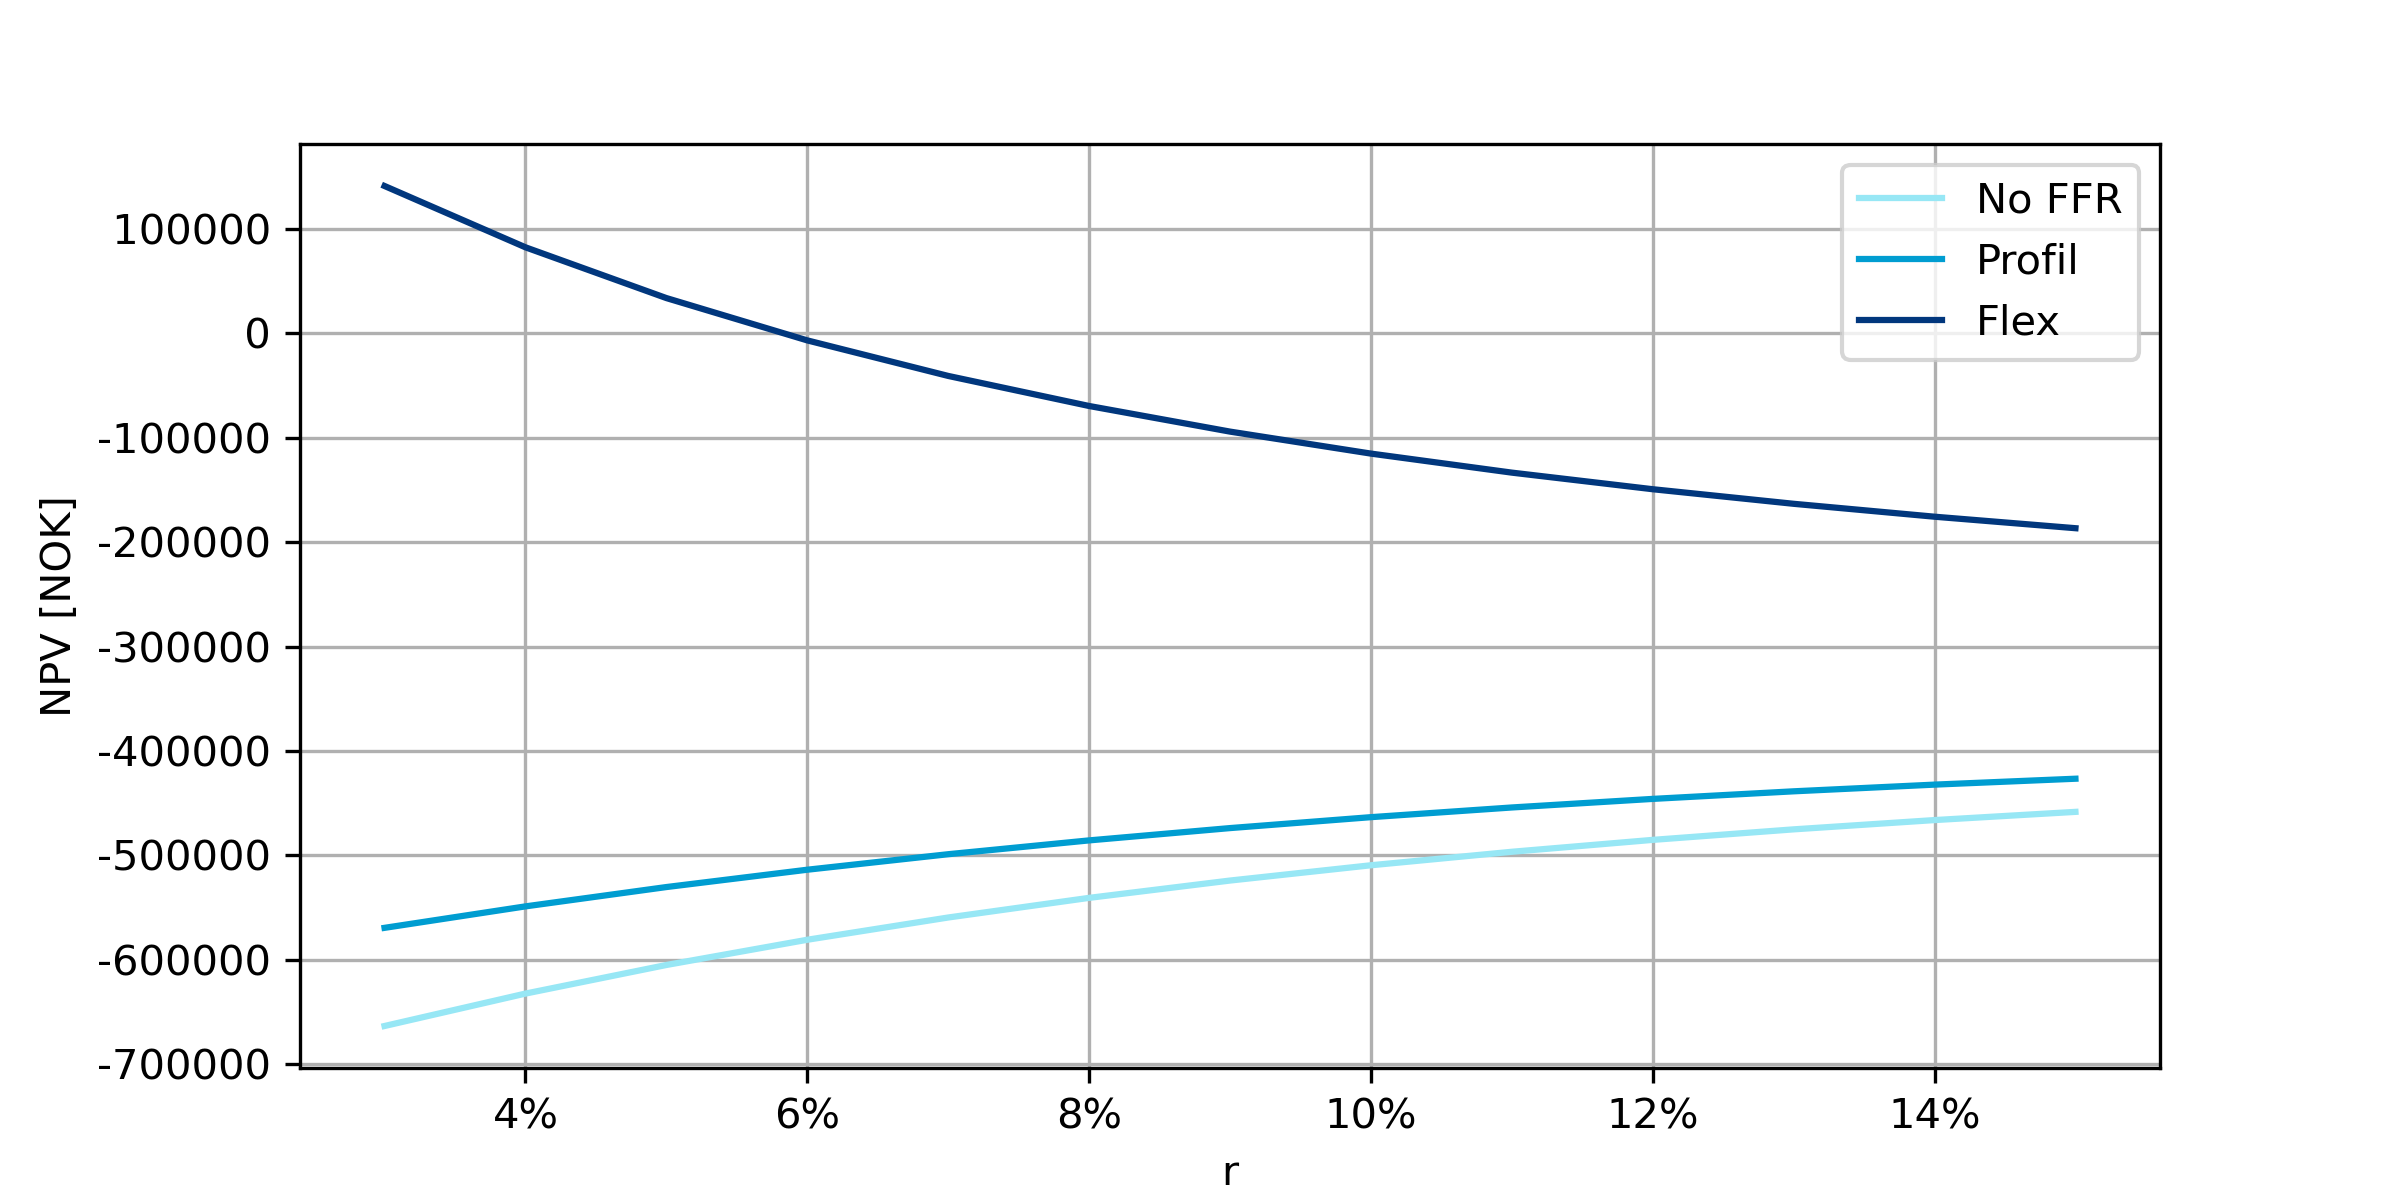
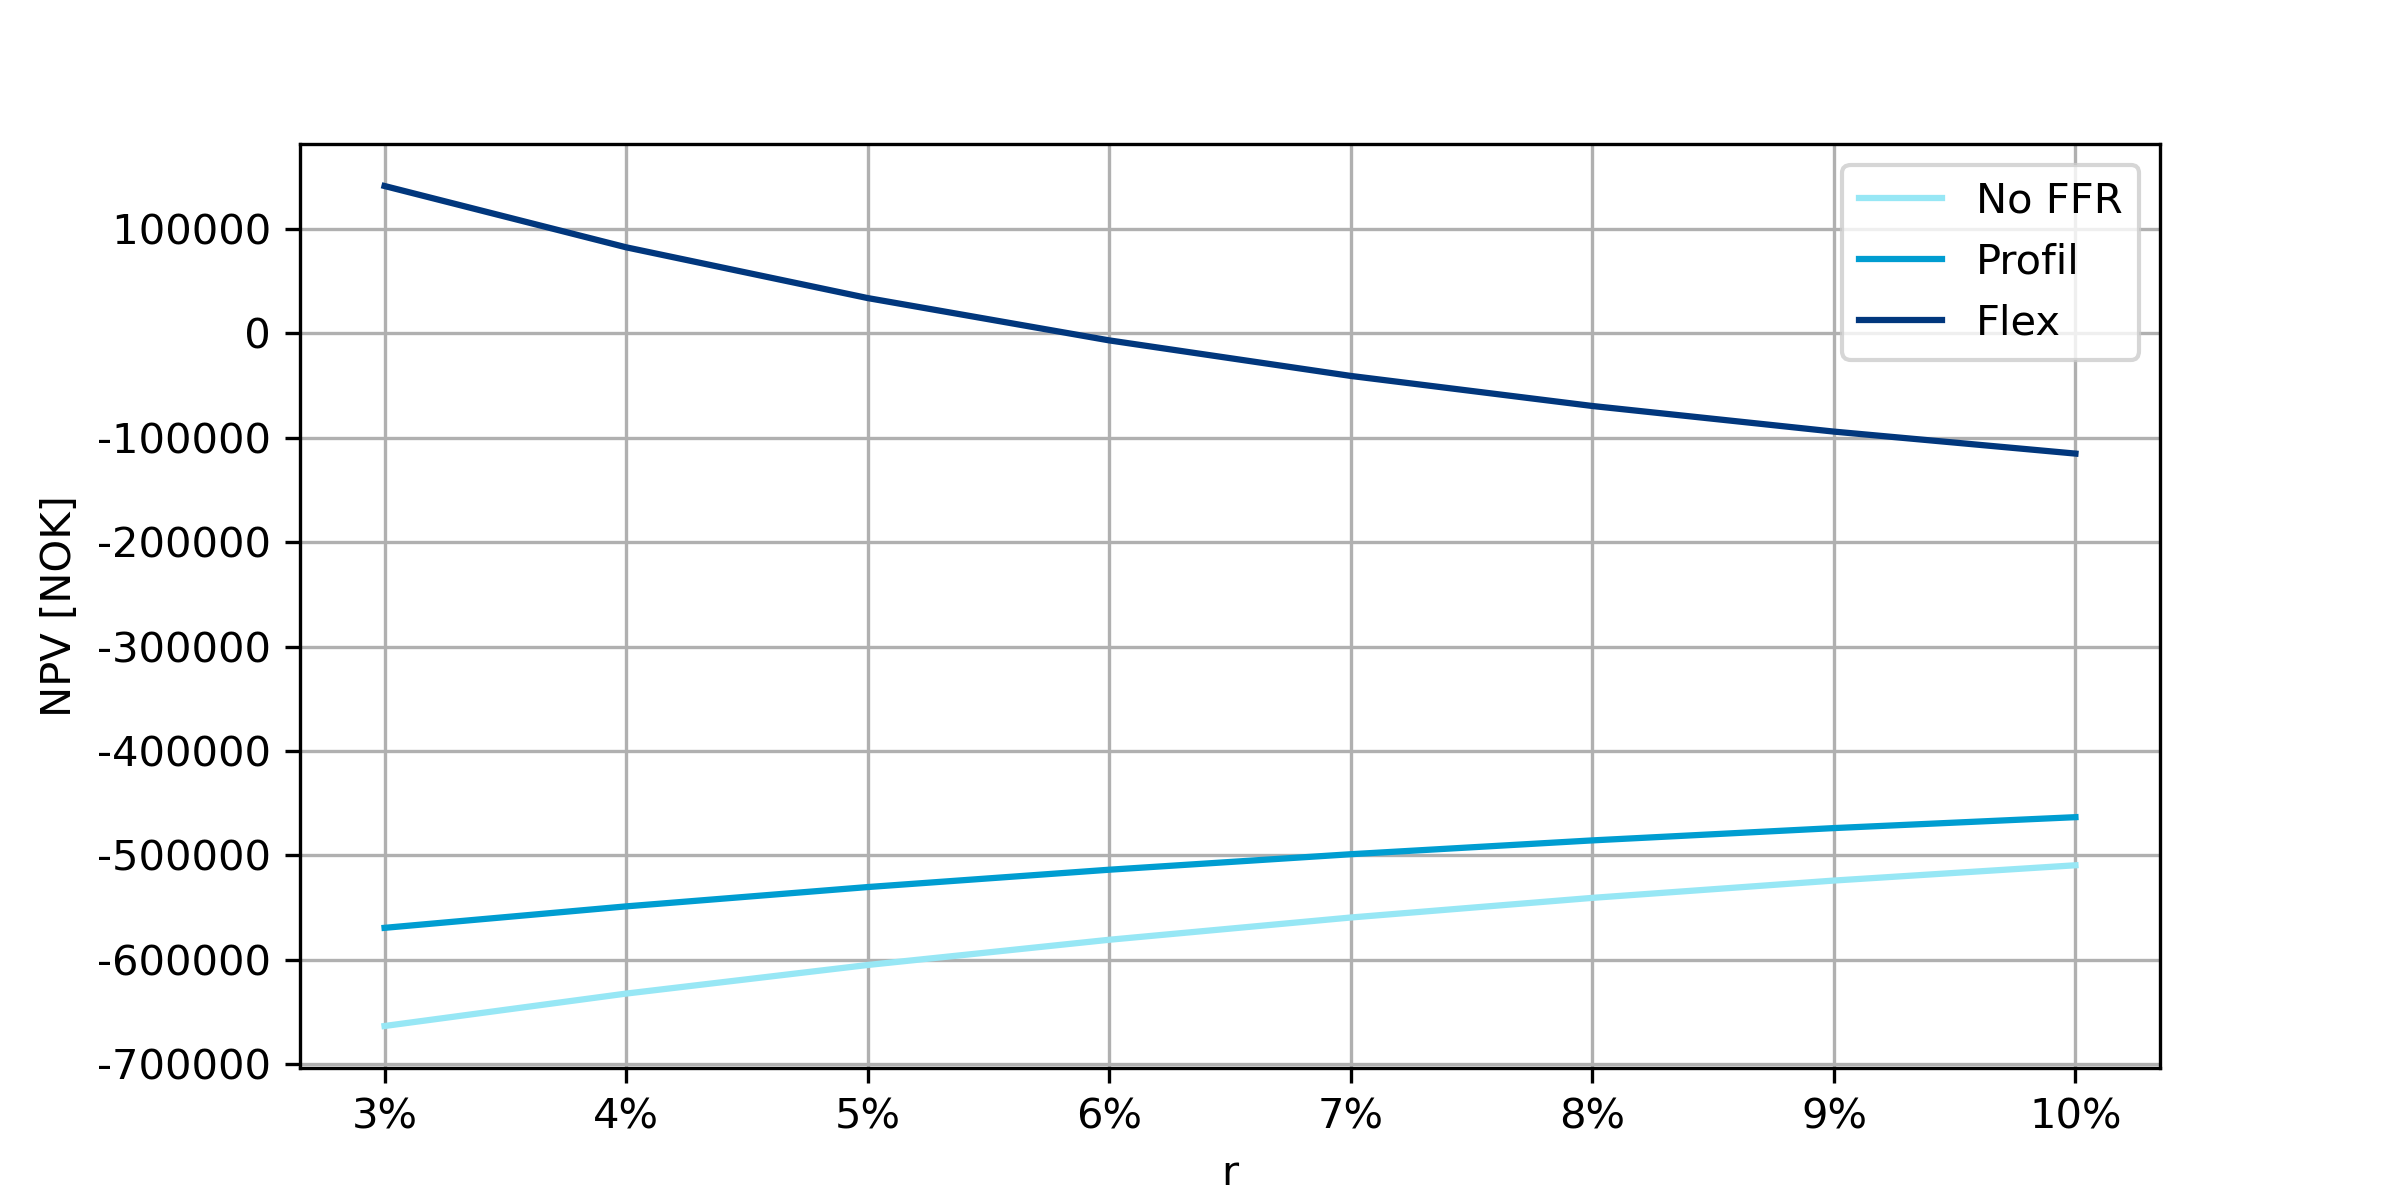
Update plot range in Plot_NPV.py

diff --git a/Workfolder_Case/Plot_NPV.py b/Workfolder_Case/Plot_NPV.py
@@ -6,6 +6,8 @@ from directories_P2P import directory
 
 dpi_number = 300
 figsize = (8, 4)
+start_plot_at = 0
+stop_plot_at = 8
 
 filepath = "c:/Users/jakob/Downloads/NPV.xlsx"
 
@@ -13,13 +15,13 @@ filepath = "c:/Users/jakob/Downloads/NPV.xlsx"
 df = pd.read_excel(filepath, sheet_name="Plot", header=1, index_col=0)
 
 #make every column to a numpy array
-r = np.array(df.r)
-NoFFR_PV_Bat = np.array(df.NoFFR_PV_Bat)
-Profil_PV_Bat = np.array(df.Profil_PV_Bat)
-Flex_PV_Bat = np.array(df.Flex_PV_Bat)
-NoFFR_Bat = np.array(df.NoFFR_Bat)
-Profil_Bat = np.array(df.Profil_Bat)
-Flex_Bat = np.array(df.Flex_Bat)
+r = np.array(df.r)[start_plot_at:stop_plot_at]
+NoFFR_PV_Bat = np.array(df.NoFFR_PV_Bat)[start_plot_at:stop_plot_at]
+Profil_PV_Bat = np.array(df.Profil_PV_Bat)[start_plot_at:stop_plot_at]
+Flex_PV_Bat = np.array(df.Flex_PV_Bat)[start_plot_at:stop_plot_at]
+NoFFR_Bat = np.array(df.NoFFR_Bat)[start_plot_at:stop_plot_at]
+Profil_Bat = np.array(df.Profil_Bat)[start_plot_at:stop_plot_at]
+Flex_Bat = np.array(df.Flex_Bat)[start_plot_at:stop_plot_at]
 
 
 #Setup the plot. Colors should be 01377D, 009DD1, 97E7F5, 7ED348, 26B170
